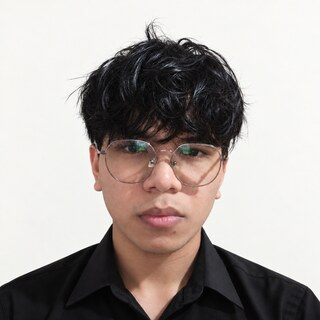
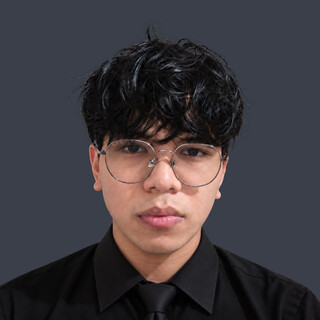
Add the forward-pass start-up animation, and a dark-grey profile photo
The loader runs a sparse MLP forward pass while a log deploys the site as if it
were the model. It runs once per tab (sessionStorage), is skipped entirely for
prefers-reduced-motion, and dismisses on window load or a 3.2s ceiling --
whichever is first -- so it never holds back a page that is already ready.

Photo: the new shot came on a near-white background. Threshold keying left a
halo around the hair, so the matte came from a background-removal model and was
composited onto #3a3f4a, which is dark enough to read as grey without swallowing
the black shirt.

diff --git a/src/components/BootLoader.jsx b/src/components/BootLoader.jsx
@@ -1,0 +1,236 @@
+import { useEffect, useRef, useState } from "react";
+
+// Start-up animation: a small MLP runs a forward pass while the site "deploys".
+//
+// Three rules keep it from being a tax on the visitor:
+//   1. It only ever runs ONCE per browser tab (sessionStorage). Nobody wants an
+//      intro twice, and a second view is pure delay.
+//   2. It is skipped entirely for anyone who asked for reduced motion.
+//   3. It dismisses on window `load` OR at MAX_MS, whichever is first — the
+//      animation never holds a page back that is already ready.
+const RUN_MS = 2600;      // full sweep + settle when the page is still loading
+const MAX_MS = 3200;      // hard ceiling, even on a slow connection
+const KEY = "zeref-booted";
+
+// blue -> indigo -> violet -> purple, one hue per layer
+const HUE = [[59, 130, 246], [99, 102, 241], [139, 92, 246], [168, 85, 247]];
+const LAYERS = [4, 7, 7, 3];
+
+const STAGES = [
+  [0.06, 'pull <b>zeref/portfolio:2026.09</b>'],
+  [0.32, 'load weights <b>20 projects</b> · 18 live'],
+  [0.60, 'warm zeref-bot <b>cosine k=6</b>'],
+  [0.94, 'serving <b>john andrei martinez</b> <i class="bl-caret"></i>'],
+];
+
+export default function BootLoader() {
+  const canvasRef = useRef(null);
+  const logRef = useRef(null);
+  const pctRef = useRef(null);
+  const [show, setShow] = useState(() => {
+    if (typeof window === "undefined") return false;
+    const reduced = window.matchMedia?.("(prefers-reduced-motion: reduce)").matches;
+    let seen = false;
+    try { seen = sessionStorage.getItem(KEY) === "1"; } catch { /* private mode */ }
+    return !reduced && !seen;
+  });
+  const [leaving, setLeaving] = useState(false);
+
+  useEffect(() => {
+    if (!show) return;
+    try { sessionStorage.setItem(KEY, "1"); } catch { /* private mode */ }
+
+    const cv = canvasRef.current;
+    const dpr = Math.min(window.devicePixelRatio || 1, 2);
+    const W = Math.min(window.innerWidth * 0.82, 640);
+    const H = Math.min(window.innerHeight * 0.42, 300);
+    cv.width = W * dpr; cv.height = H * dpr;
+    cv.style.width = W + "px"; cv.style.height = H + "px";
+    const g = cv.getContext("2d");
+    g.setTransform(dpr, 0, 0, dpr, 0, 0);
+
+    const rgba = (c, a) => `rgba(${c[0]},${c[1]},${c[2]},${a})`;
+    const mix = (a, b, t) => [0, 1, 2].map((i) => Math.round(a[i] + (b[i] - a[i]) * t));
+    const LAST = LAYERS.length - 1;
+
+    // ---- build a SPARSE net: most weights near zero, a few dead units ----
+    const nodes = [];
+    const gapY = (H * 0.72) / Math.max(...LAYERS);
+    LAYERS.forEach((n, l) => {
+      const x = 52 + l * ((W - 104) / LAST);
+      for (let i = 0; i < n; i++)
+        nodes.push({ x, y: H / 2 + (i - (n - 1) / 2) * gapY, l, a: 0, ring: -1 });
+    });
+    for (const n of nodes) n.dead = n.l > 0 && n.l < LAST && Math.random() < 0.2;
+
+    const edges = [];
+    for (const a of nodes) for (const b of nodes)
+      if (b.l === a.l + 1)
+        edges.push({ a, b, w: 0.25 + Math.random() * 0.75,
+                     live: !a.dead && !b.dead && Math.random() < 0.42 });
+
+    // Repair: every live unit past the input needs at least one live wire into
+    // it, or the signal stops dead and the output layer never lights — which
+    // reads as broken rather than sparse.
+    for (const n of nodes) {
+      if (n.l === 0 || n.dead) continue;
+      const inc = edges.filter((e) => e.b === n && !e.a.dead);
+      if (inc.length && !inc.some((e) => e.live))
+        inc[(Math.random() * inc.length) | 0].live = true;
+    }
+
+    // dot grid painted once and blitted — redrawing ~400 arcs a frame is waste
+    const grid = document.createElement("canvas");
+    grid.width = W * dpr; grid.height = H * dpr;
+    const gg = grid.getContext("2d");
+    gg.setTransform(dpr, 0, 0, dpr, 0, 0);
+    gg.fillStyle = "rgba(255,255,255,0.035)";
+    for (let x = 14; x < W; x += 22)
+      for (let y = 14; y < H; y += 22) { gg.beginPath(); gg.arc(x, y, 1, 0, 7); gg.fill(); }
+
+    const ease = (t) => (t < 0.5 ? 4 * t * t * t : 1 - Math.pow(-2 * t + 2, 3) / 2);
+    const smooth = (t) => (t <= 0 ? 0 : t >= 1 ? 1 : t * t * (3 - 2 * t));
+
+    const t0 = performance.now();
+    let raf = 0, done = false;
+
+    const frame = (now) => {
+      const ms = now - t0;
+      const p = Math.min(1, ms / (RUN_MS * 0.78));
+      const tail = Math.max(0, Math.min(1, (ms - RUN_MS * 0.78) / (RUN_MS * 0.22)));
+      const front = ease(p) * LAST;
+      const drift = Math.sin(ms / 1400) * 2.5;
+
+      g.clearRect(0, 0, W, H);
+      g.save(); g.translate(0, drift);
+      g.drawImage(grid, 0, 0, W, H);
+
+      g.strokeStyle = "rgba(255,255,255,0.075)"; g.lineWidth = 0.8;
+      g.beginPath();
+      for (const e of edges) { g.moveTo(e.a.x, e.a.y); g.lineTo(e.b.x, e.b.y); }
+      g.stroke();
+      g.lineCap = "round";
+
+      for (const e of edges) {
+        if (!e.live) continue;                       // this weight never fires
+        const t = smooth(front - e.a.l);
+        if (t <= 0) continue;
+        const from = HUE[e.a.l], to = HUE[e.b.l];
+        const x = e.a.x + (e.b.x - e.a.x) * t, y = e.a.y + (e.b.y - e.a.y) * t;
+        g.strokeStyle = rgba(mix(from, to, t * 0.6), 0.14 + e.w * 0.4);
+        g.lineWidth = 0.7 + e.w * 1.3;
+        g.beginPath(); g.moveTo(e.a.x, e.a.y); g.lineTo(x, y); g.stroke();
+        if (t < 1) {
+          const head = mix(from, to, t);
+          g.fillStyle = rgba(head, 0.16);
+          g.beginPath(); g.arc(x, y, 6, 0, 7); g.fill();
+          g.fillStyle = rgba(head, 0.92);
+          g.beginPath(); g.arc(x, y, 2.1, 0, 7); g.fill();
+        }
+      }
+
+      for (const n of nodes) {
+        const c = HUE[n.l], on = !n.dead && front >= n.l;
+        if (on && n.ring < 0) n.ring = ms;
+        n.a += ((on ? 1 : 0) - n.a) * 0.13;
+        const r = 3 + n.a * 2.1;
+        if (n.ring >= 0) {                            // one-shot spike ring
+          const rp = (ms - n.ring) / 520;
+          if (rp < 1) {
+            g.strokeStyle = rgba(c, (1 - rp) * 0.5);
+            g.lineWidth = 1.4 * (1 - rp);
+            g.beginPath(); g.arc(n.x, n.y, r + rp * 16, 0, 7); g.stroke();
+          }
+        }
+        if (n.a > 0.04) {
+          g.fillStyle = rgba(c, 0.12 * n.a);
+          g.beginPath(); g.arc(n.x, n.y, r + 8 * n.a, 0, 7); g.fill();
+        }
+        g.fillStyle = n.a > 0.5 ? rgba(c, 1) : "rgba(255,255,255,0.16)";
+        g.beginPath(); g.arc(n.x, n.y, r, 0, 7); g.fill();
+      }
+
+      if (tail > 0) {
+        for (const n of nodes) {
+          if (n.l !== LAST || n.a < 0.5) continue;
+          const beat = 0.5 + 0.5 * Math.sin(ms / 420 + n.y);
+          g.fillStyle = rgba(HUE[3], 0.1 * tail * beat);
+          g.beginPath(); g.arc(n.x, n.y, 11 + beat * 4, 0, 7); g.fill();
+        }
+      }
+
+      g.restore();
+      if (!done) raf = requestAnimationFrame(frame);
+    };
+    raf = requestAnimationFrame(frame);
+
+    // ---- deploy log: stage lines, with a transfer line moving between them ----
+    const logEl = logRef.current, pctEl = pctRef.current;
+    let stage = 0, live = null;
+    const push = (html) => {
+      [...logEl.children].forEach((c) => c.classList.add("dim"));
+      const d = document.createElement("div");
+      d.innerHTML = html;
+      logEl.appendChild(d);
+      while (logEl.children.length > 5) logEl.removeChild(logEl.firstChild);
+      return d;
+    };
+    const logTimer = setInterval(() => {
+      const prog = Math.min(1, (performance.now() - t0) / RUN_MS);
+      pctEl.textContent = String(Math.round(prog * 100)).padStart(3, "0");
+      if (stage < STAGES.length && prog >= STAGES[stage][0]) {
+        push("<span>›</span> " + STAGES[stage][1]);
+        stage++;
+        live = null;
+      }
+      // once the last stage lands, stop — a 'deploy 20/20' under 'serving'
+      // would undo the ending
+      if (stage >= STAGES.length) return;
+      const mods = String(Math.round(prog * 20)).padStart(2, "0");
+      const html = `<span>›</span> deploy <b>${mods}</b>/20  ${(prog * 18.4).toFixed(1)} MB  ` +
+                   `${(14 + Math.random() * 7).toFixed(1)} MB/s <i class="bl-caret"></i>`;
+      if (live && logEl.lastChild === live) live.innerHTML = html;
+      else live = push(html);
+    }, 90);
+
+    // ---- dismissal: page ready, or the ceiling, whichever comes first ----
+    let finished = false;
+    const finish = () => {
+      if (finished) return;
+      finished = true;
+      done = true;
+      cancelAnimationFrame(raf);
+      clearInterval(logTimer);
+      setLeaving(true);
+      setTimeout(() => setShow(false), 800);       // matches the CSS lift
+    };
+    const ready = () =>
+      setTimeout(finish, Math.max(0, RUN_MS - (performance.now() - t0)));
+    if (document.readyState === "complete") ready();
+    else window.addEventListener("load", ready, { once: true });
+    const ceiling = setTimeout(finish, MAX_MS);
+
+    return () => {
+      done = true;
+      cancelAnimationFrame(raf);
+      clearInterval(logTimer);
+      clearTimeout(ceiling);
+      window.removeEventListener("load", ready);
+    };
+  }, [show]);
+
+  if (!show) return null;
+
+  return (
+    <div className={`bootloader${leaving ? " leaving" : ""}`} aria-hidden="true">
+      <div className="bl-cam">
+        <i className="tl" /><i className="tr" /><i className="bl" /><i className="br" />
+        <u className="t" /><u className="b" /><u className="l" /><u className="r" />
+      </div>
+      <div className="bl-rec"><s />DEPLOY</div>
+      <canvas ref={canvasRef} />
+      <div className="bl-log" ref={logRef} />
+      <div className="bl-pct"><b ref={pctRef}>000</b>LOADING</div>
+    </div>
+  );
+}

diff --git a/src/index.css b/src/index.css
@@ -2266,3 +2266,96 @@ html, body { overflow-x: hidden; max-width: 100%; }
 .ft-badge-text { display: flex; flex-direction: column; }
 .ft-badge-text strong { color: var(--text); font-weight: 600; letter-spacing: 0.02em; }
 @media (hover: none) { .ft-badge:hover { transform: none; } }
+
+/* ---------- start-up loader (BootLoader.jsx) ---------- */
+/* Runs once per tab, skipped for reduced-motion, and dismisses on page-ready.
+   Everything here is scoped under .bootloader so it cannot leak into the site. */
+.bootloader {
+  position: fixed;
+  inset: 0;
+  z-index: 200;
+  background: var(--bg);
+  display: flex;
+  align-items: center;
+  justify-content: center;
+  overflow: hidden;
+}
+.bootloader canvas { display: block; }
+
+/* the viewfinder brackets rack inward like a lens pulling focus */
+.bl-cam { position: absolute; inset: 0; pointer-events: none; }
+.bl-cam i {
+  position: absolute; width: 34px; height: 34px;
+  border: 1.5px solid #7c6cf0; opacity: 0;
+  animation: bl-cam-in 0.75s cubic-bezier(0.16, 1, 0.3, 1) forwards;
+}
+.bl-cam i.tl { top: 26px; left: 26px; border-right: 0; border-bottom: 0; }
+.bl-cam i.tr { top: 26px; right: 26px; border-left: 0; border-bottom: 0; animation-delay: 0.06s; }
+.bl-cam i.bl { bottom: 26px; left: 26px; border-right: 0; border-top: 0; animation-delay: 0.12s; }
+.bl-cam i.br { bottom: 26px; right: 26px; border-left: 0; border-top: 0; animation-delay: 0.18s; }
+@keyframes bl-cam-in {
+  0%   { opacity: 0; transform: scale(2.4); }
+  60%  { opacity: 1; }
+  100% { opacity: 0.85; transform: scale(1); }
+}
+.bl-cam u {
+  position: absolute; background: var(--border); opacity: 0;
+  animation: bl-fade 0.5s ease 0.34s forwards;
+}
+.bl-cam u.t { top: 26px; left: 50%; width: 1px; height: 9px; transform: translateX(-50%); }
+.bl-cam u.b { bottom: 26px; left: 50%; width: 1px; height: 9px; transform: translateX(-50%); }
+.bl-cam u.l { left: 26px; top: 50%; height: 1px; width: 9px; transform: translateY(-50%); }
+.bl-cam u.r { right: 26px; top: 50%; height: 1px; width: 9px; transform: translateY(-50%); }
+@keyframes bl-fade { to { opacity: 1; } }
+
+.bl-rec {
+  position: absolute; top: 30px; left: 74px;
+  font-family: var(--font-mono); font-size: 10px; letter-spacing: 0.24em;
+  color: var(--text-muted); display: flex; align-items: center; gap: 7px;
+  opacity: 0; animation: bl-fade 0.5s ease 0.5s forwards;
+}
+.bl-rec s {
+  width: 6px; height: 6px; border-radius: 50%; background: #818cf8;
+  text-decoration: none; animation: bl-rec 1.4s ease-in-out infinite;
+}
+@keyframes bl-rec { 50% { opacity: 0.25; } }
+
+.bl-log {
+  position: absolute; left: 30px; bottom: 30px; max-width: min(60vw, 540px);
+  font-family: var(--font-mono); font-size: 11px; line-height: 1.85;
+  color: var(--text-muted); letter-spacing: 0.06em; text-transform: uppercase;
+}
+.bl-log div { white-space: nowrap; overflow: hidden; animation: bl-line 0.28s ease forwards; }
+.bl-log div.dim { opacity: 0.42; }
+.bl-log span { color: #5a6379; }
+.bl-log b { font-weight: 400; color: #a78bfa; }
+@keyframes bl-line { from { opacity: 0; transform: translateY(4px); } to { opacity: 1; transform: none; } }
+
+.bl-caret {
+  display: inline-block; width: 6px; height: 10px; background: #a855f7;
+  vertical-align: -1px; animation: bl-blink 0.75s steps(1) infinite;
+}
+@keyframes bl-blink { 50% { opacity: 0; } }
+
+.bl-pct {
+  position: absolute; right: 30px; bottom: 30px; text-align: right;
+  font-family: var(--font-mono); font-size: 11px; line-height: 1.85;
+  color: var(--text-muted); letter-spacing: 0.22em;
+}
+.bl-pct b { display: block; font-weight: 400; color: #a855f7; font-size: 26px; letter-spacing: 0.1em; }
+
+/* hand-off: the viewfinder pulls back and dissolves while the hero rises, so
+   the two overlap instead of one ending before the other starts */
+.bootloader.leaving { animation: bl-lift 0.78s cubic-bezier(0.65, 0, 0.2, 1) forwards; }
+@keyframes bl-lift {
+  0%   { opacity: 1; transform: scale(1); filter: blur(0); }
+  100% { opacity: 0; transform: scale(1.09); filter: blur(7px); visibility: hidden; }
+}
+
+@media (max-width: 640px) {
+  .bl-log { left: 18px; bottom: 20px; font-size: 10px; max-width: 72vw; }
+  .bl-pct { right: 18px; bottom: 20px; }
+  .bl-pct b { font-size: 20px; }
+  .bl-rec { left: 62px; top: 26px; }
+  .bl-cam i { width: 24px; height: 24px; }
+}

diff --git a/src/App.jsx b/src/App.jsx
@@ -1,3 +1,4 @@
+import BootLoader from "./components/BootLoader.jsx";
 import Cursor from "./components/Cursor.jsx";
 import ParticleField from "./components/ParticleField.jsx";
 import Reveal from "./components/Reveal.jsx";
@@ -264,6 +265,7 @@ export default function App() {
 
   return (
     <>
+      <BootLoader />
       <Cursor />
       <ParticleField />
       <Noise patternAlpha={22} />
